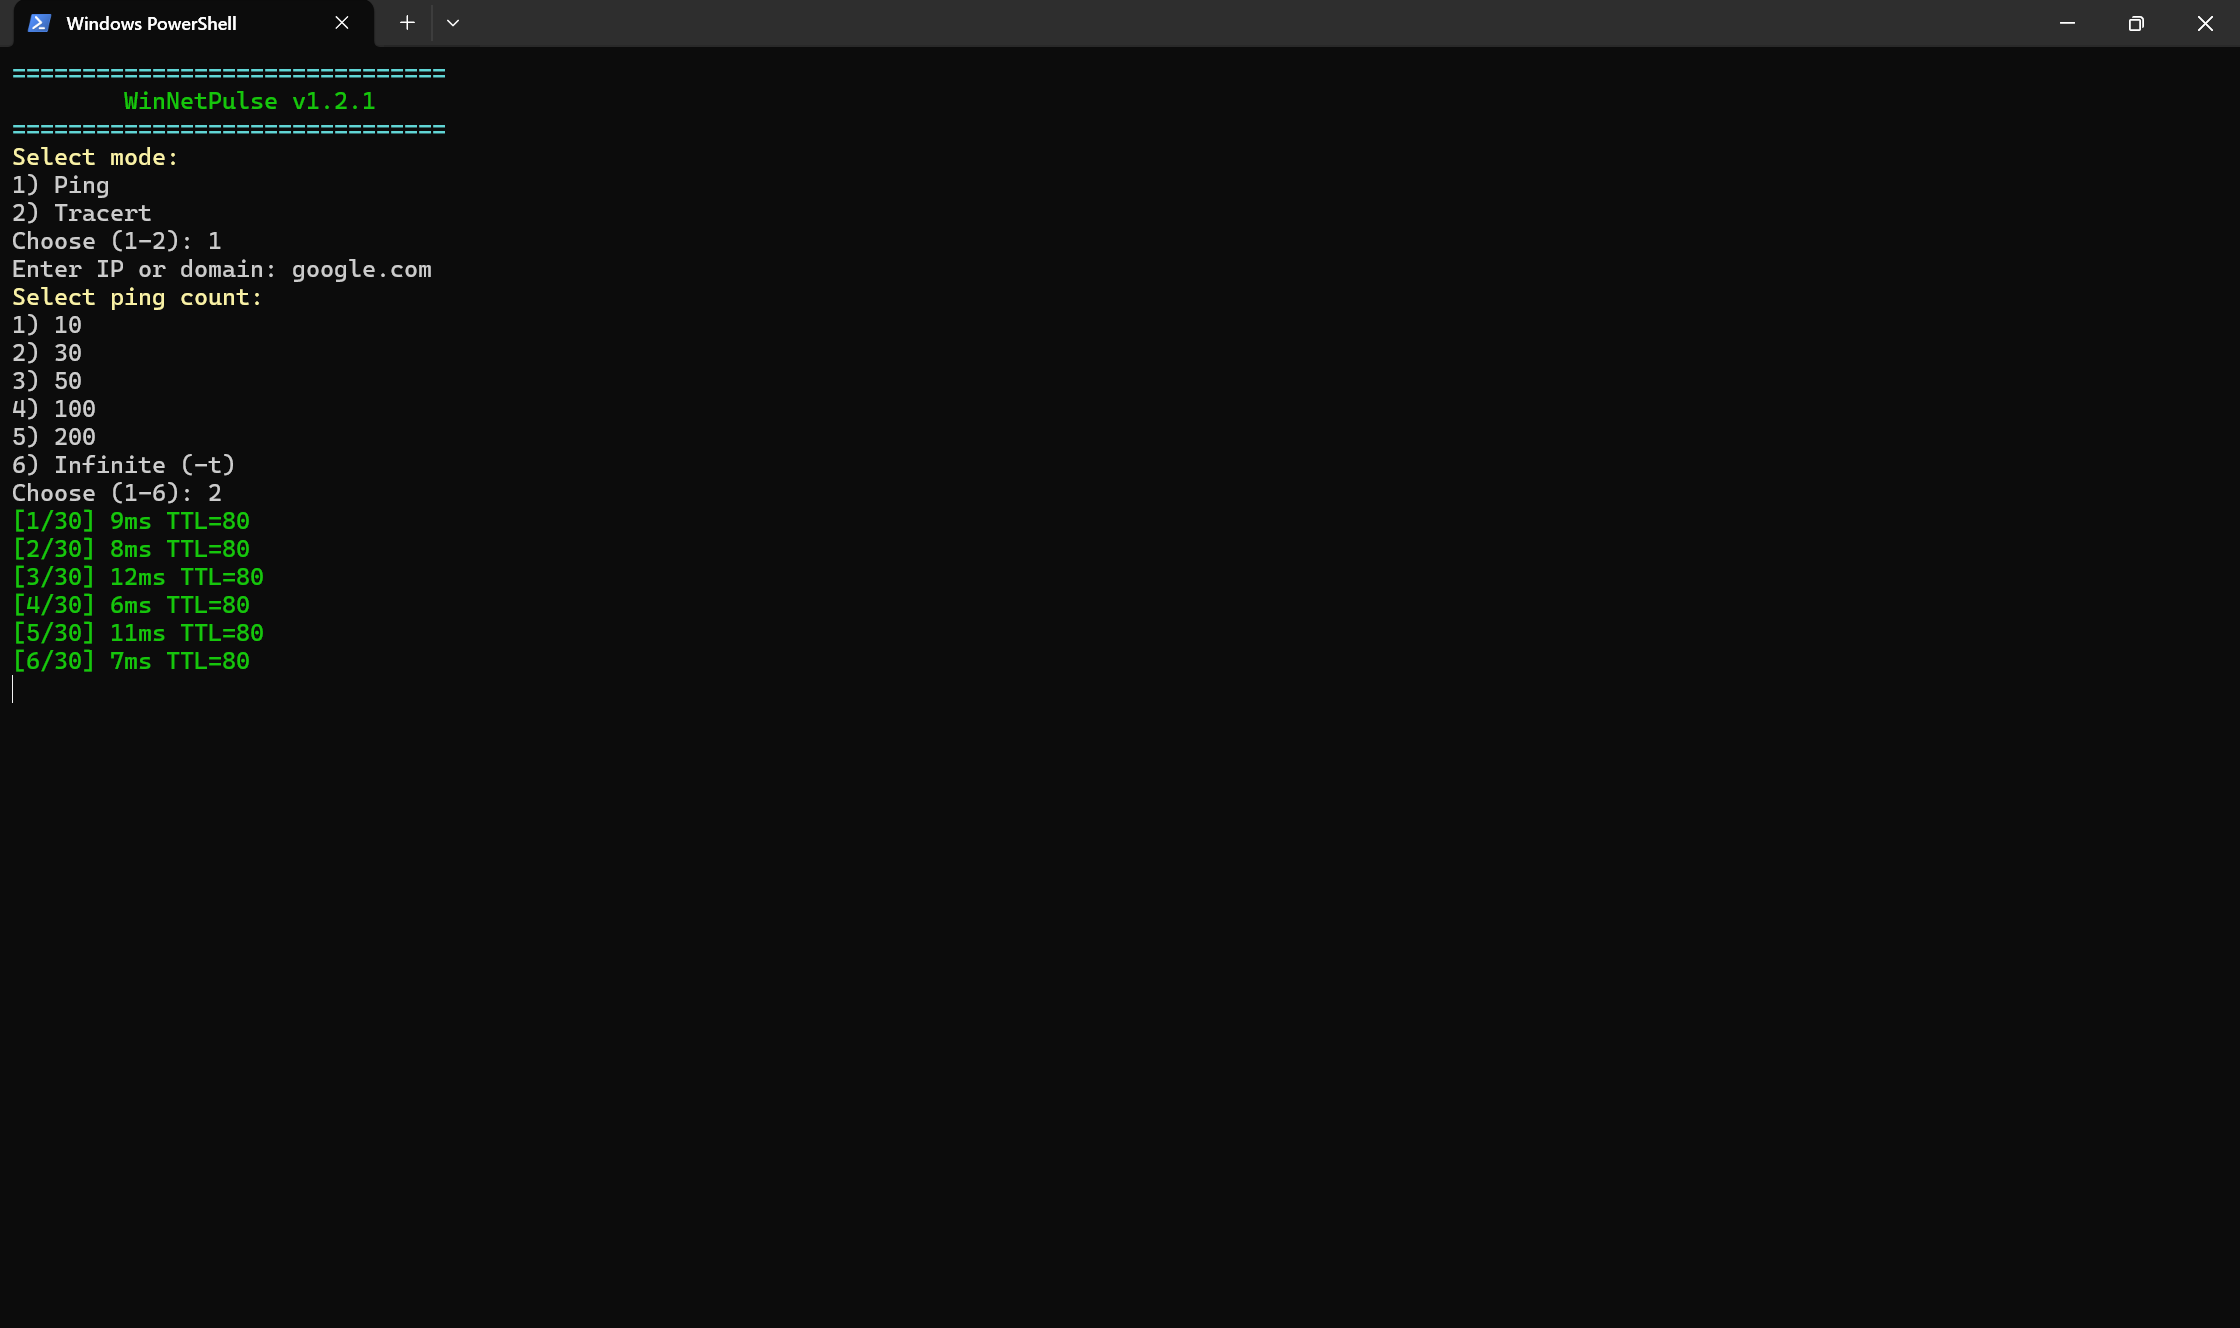
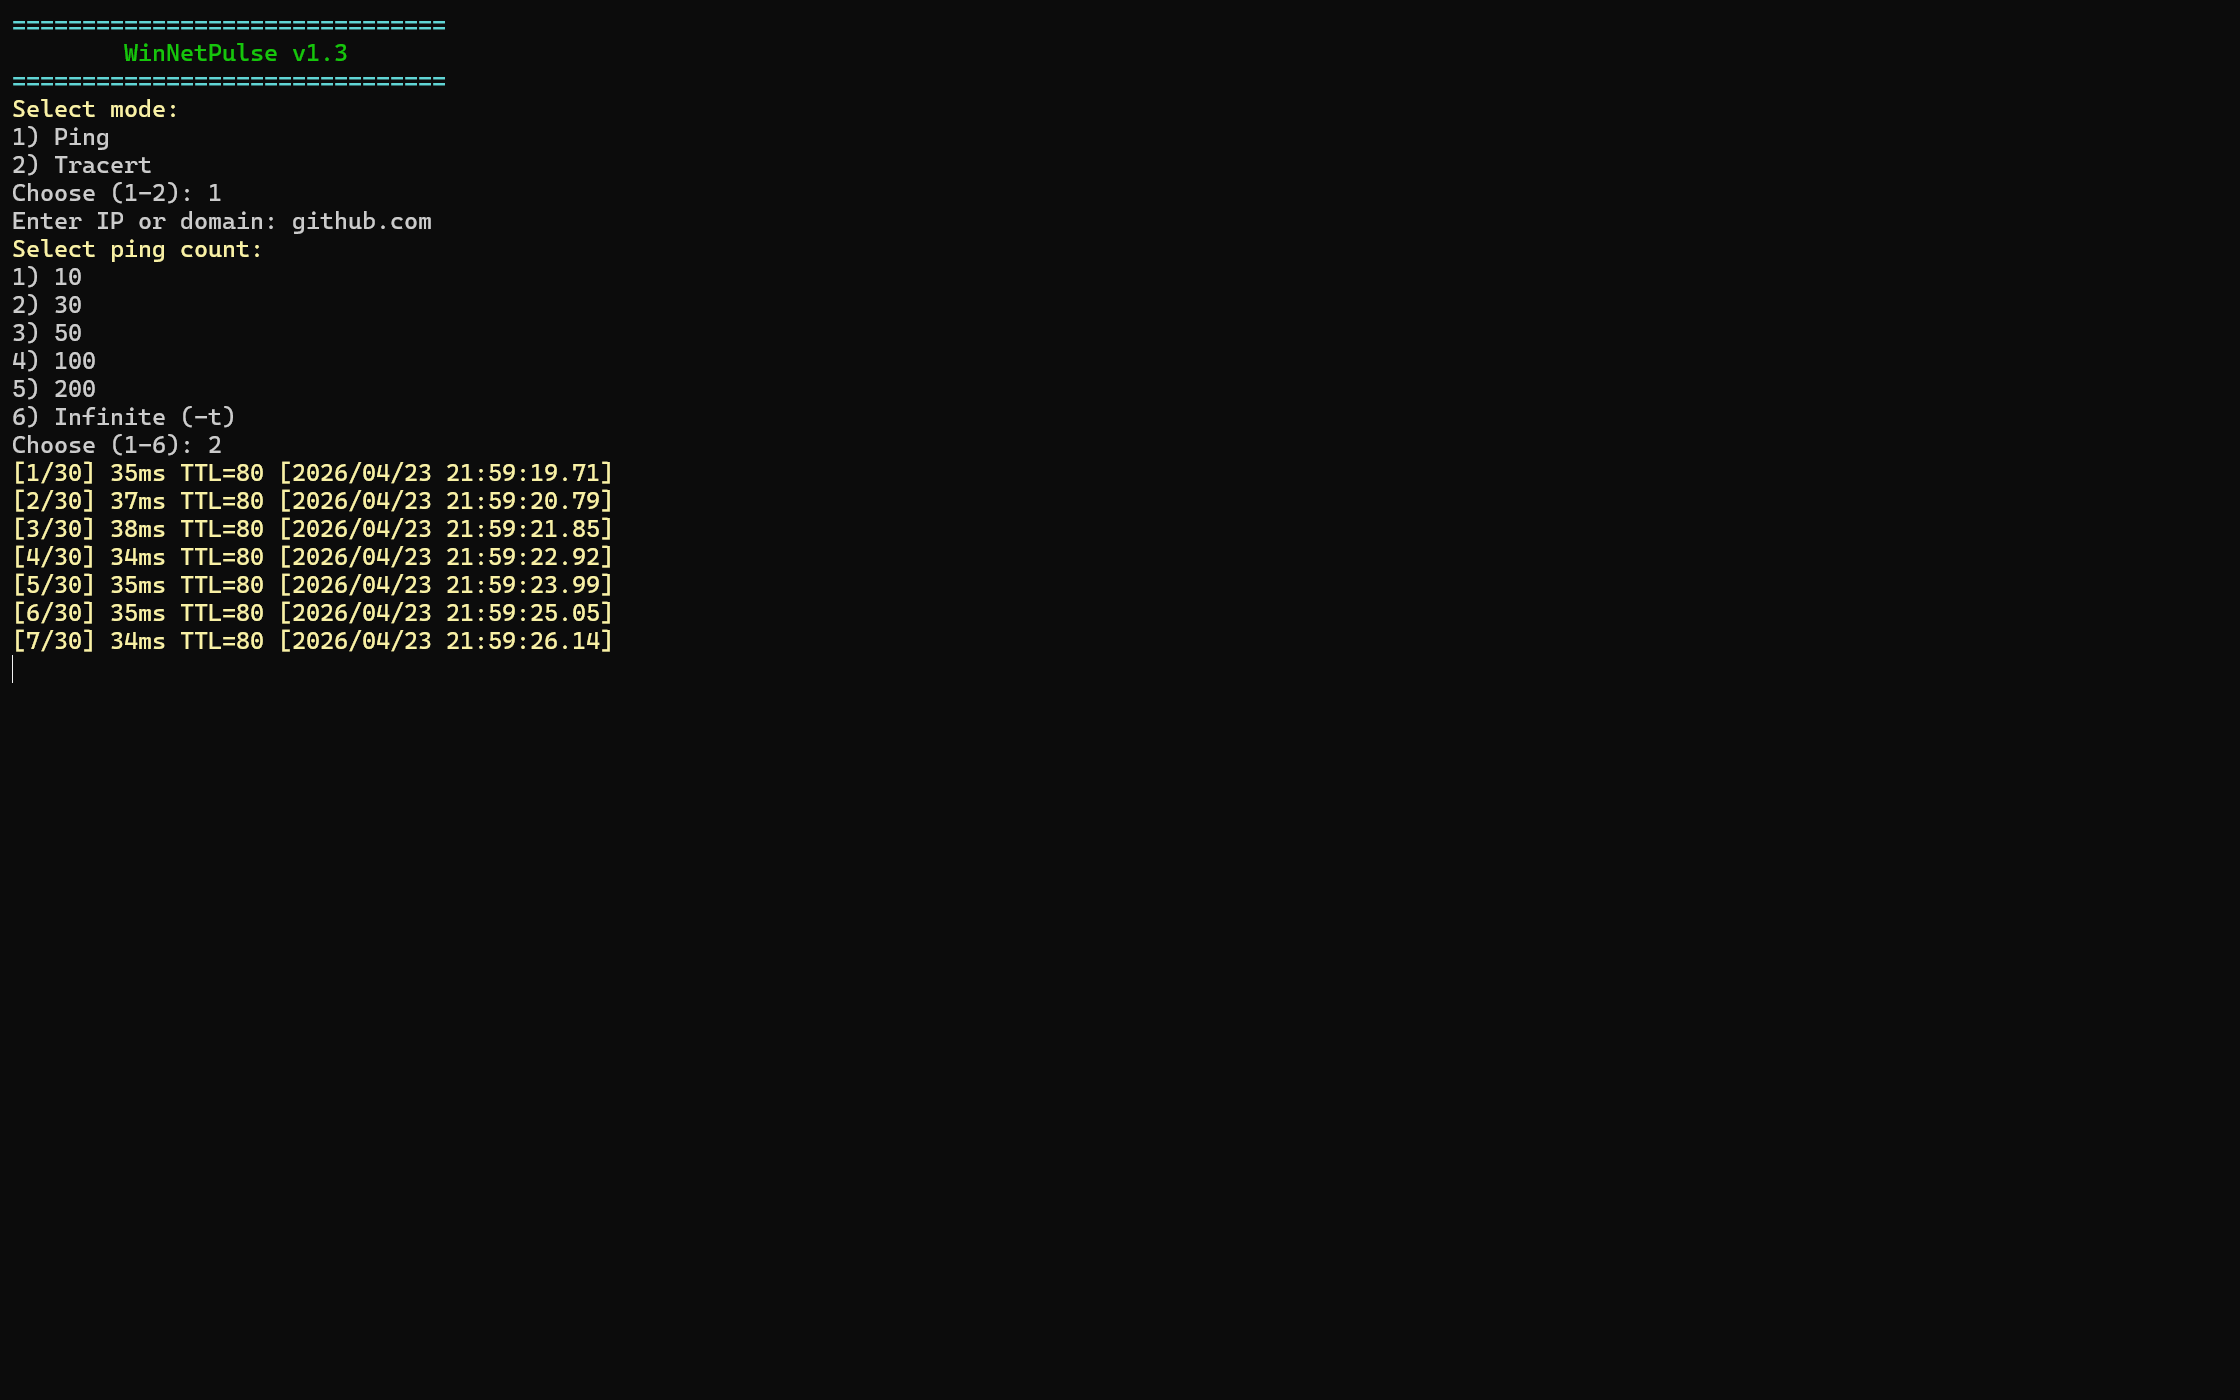
Add timestamp to each ping result line

Changed region(s): [[0.0, 0.0, 1.0, 0.5248]]

diff --git a/README.md b/README.md
@@ -9,7 +9,7 @@ WinNetPulse is a lightweight **Windows network diagnostic CLI tool** written in 
 
 It provides fast **Ping and Traceroute diagnostics** with real-time statistics and interactive controls.
 
-Latest Version:1.2.1
+Latest Version:1.3
 
 \## Features
 
@@ -24,6 +24,8 @@ Latest Version:1.2.1
 \- Infinite mode supports press Q to stop
 
 \- Real-time statistics
+
+\- Timestamp for each result line
 
 &nbsp; - Min latency
 
